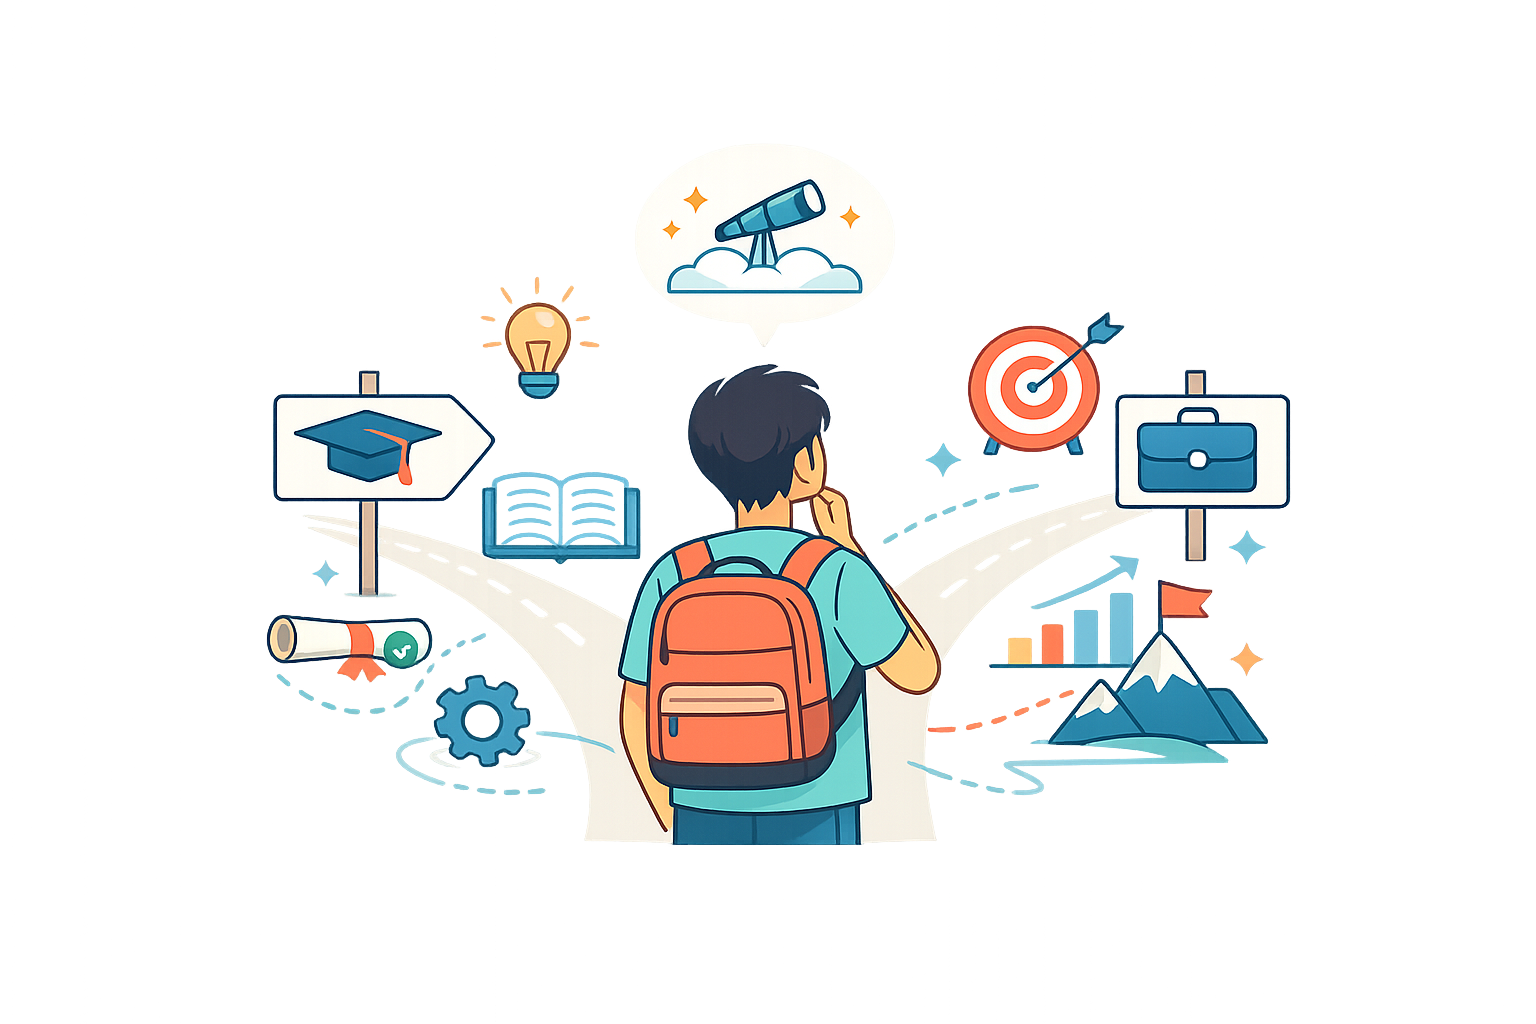
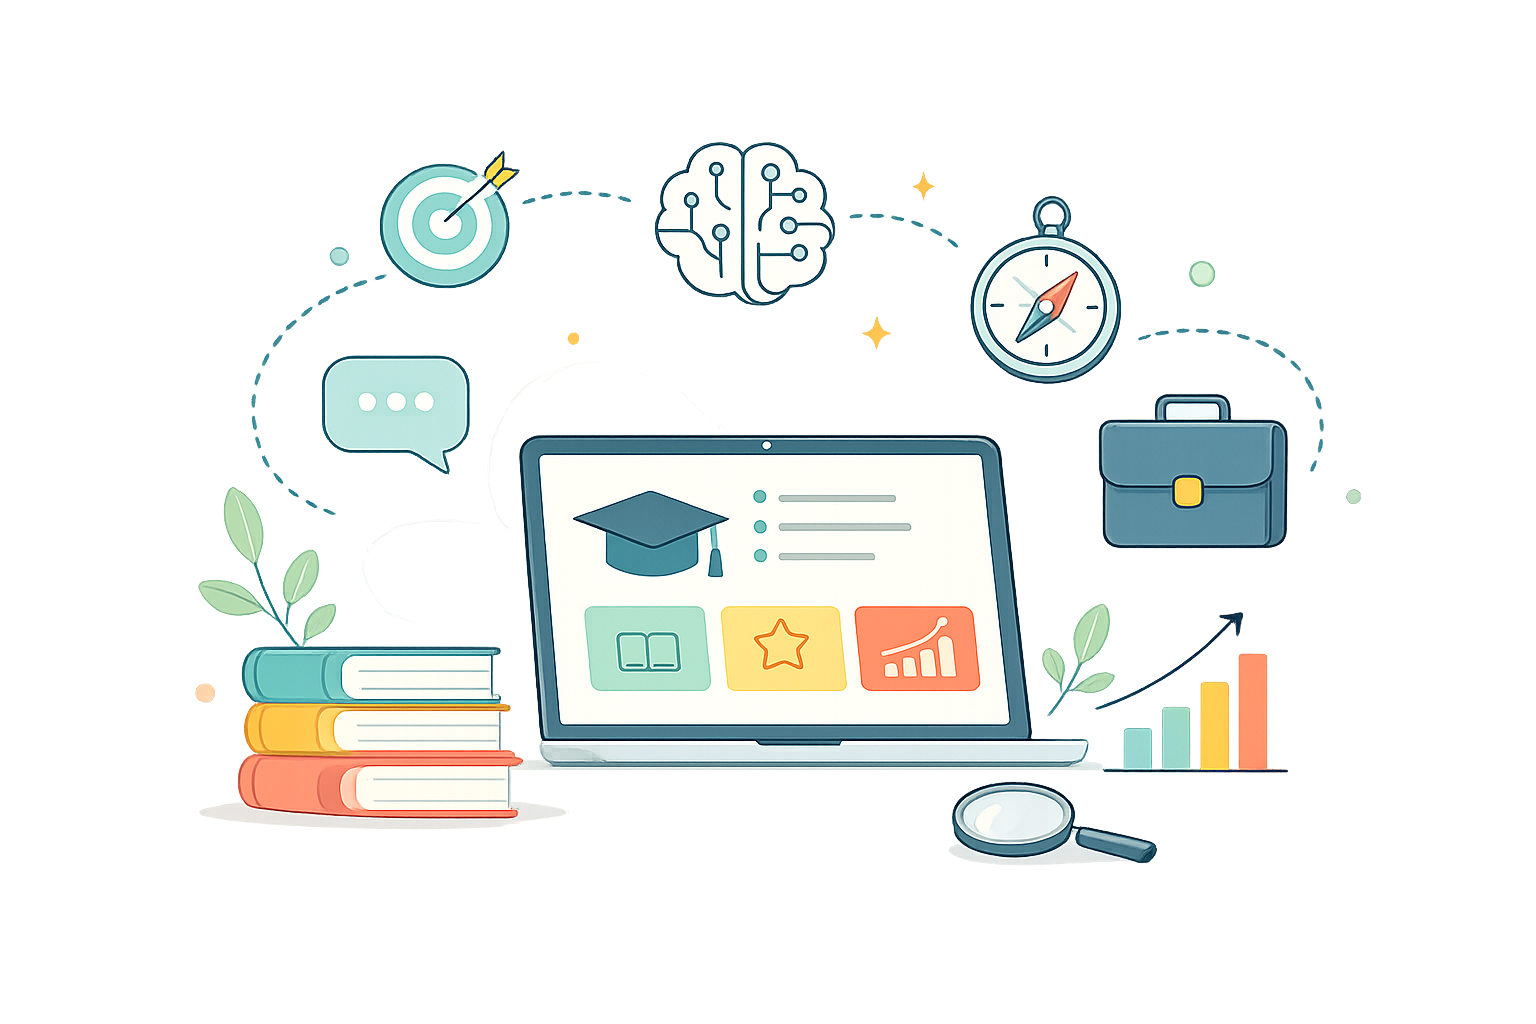
feat(onboarding): update onboarding images, enhance navigation logic, and refactor schemas

diff --git a/packages/contracts/src/schemas/onboarding-schema.ts b/packages/contracts/src/schemas/onboarding-schema.ts
@@ -1,6 +1,6 @@
 import { z } from 'zod';
 
-export const onboardingStrengthSchema = z.enum([
+export const strengthsEnum = [
   'problem_solving',
   'creativity',
   'people',
@@ -9,16 +9,11 @@ export const onboardingStrengthSchema = z.enum([
   'hands_on',
   'fast_learning',
   'organized',
-]);
+];
 
-export const onboardingSubjectSchema = z.enum(
-  ['math', 'science', 'writing', 'arts', 'social'],
-  {
-    error: 'Please choose your favorite subject',
-  }
-);
+export const subjectsEnum = ['math', 'science', 'writing', 'arts', 'social'];
 
-export const onboardingPassionSchema = z.enum([
+export const passionsEnum = [
   'tech',
   'music',
   'sports',
@@ -28,42 +23,63 @@ export const onboardingPassionSchema = z.enum([
   'nature',
   'building',
   'ideas',
-]);
+];
 
-export const onboardingFreeTimeSchema = z.enum(
-  ['build', 'outdoor', 'socialize', 'consume', 'learn'],
-  {
-    error: 'Please choose what you spend your free time',
-  }
-);
+export const freeTimeEnum = [
+  'build',
+  'outdoor',
+  'socialize',
+  'consume',
+  'learn',
+];
 
-export const onboardingWorkEnvironmentSchema = z.enum(
-  ['office', 'remote', 'outdoor', 'lab', 'mixed'],
-  {
-    error: 'Please choose your favorite work environment',
-  }
-);
+export const workEnvironmentEnum = [
+  'office',
+  'remote',
+  'outdoor',
+  'lab',
+  'mixed',
+];
 
-export const onboardingWorkStyleSchema = z.enum(
-  ['analyze', 'help', 'build', 'create', 'routine'],
-  {
-    error: 'Please choose your favorite work',
-  }
-);
+export const workStyleEnum = ['analyze', 'help', 'build', 'create', 'routine'];
 
-export const onboardingImpactSchema = z.enum(
-  ['create', 'people', 'discover', 'systems', 'express'],
-  {
-    error: 'Please choose one impactfull thing to you',
-  }
-);
+export const impactEnum = [
+  'create',
+  'people',
+  'discover',
+  'systems',
+  'express',
+];
 
-export const onboardingGoalSchema = z.enum(
-  ['impact', 'money', 'balance', 'growth', 'variety'],
-  {
-    error: 'Please choose your goal',
-  }
-);
+export const goalsEnum = ['impact', 'money', 'balance', 'growth', 'variety'];
+
+export const onboardingStrengthSchema = z.enum(strengthsEnum);
+
+export const onboardingSubjectSchema = z.enum(subjectsEnum, {
+  error: 'Please choose your favorite subject',
+});
+
+export const onboardingPassionSchema = z.enum(passionsEnum);
+
+export const onboardingFreeTimeSchema = z.enum(freeTimeEnum, {
+  error: 'Please choose what you spend your free time',
+});
+
+export const onboardingWorkEnvironmentSchema = z.enum(workEnvironmentEnum, {
+  error: 'Please choose your favorite work environment',
+});
+
+export const onboardingWorkStyleSchema = z.enum(workStyleEnum, {
+  error: 'Please choose your favorite work',
+});
+
+export const onboardingImpactSchema = z.enum(impactEnum, {
+  error: 'Please choose one impactfull thing to you',
+});
+
+export const onboardingGoalSchema = z.enum(goalsEnum, {
+  error: 'Please choose your goal',
+});
 
 export const onboardingFormSchema = z.object({
   strengths: z
@@ -80,10 +96,6 @@ export const onboardingFormSchema = z.object({
   workStyle: onboardingWorkStyleSchema,
   impact: onboardingImpactSchema,
   goals: onboardingGoalSchema,
-});
-
-export const onboardingSubmitRequestSchema = z.object({
-  responses: onboardingFormSchema,
 });
 
 export const onboardingSubmitResponseSchema = z.object({

diff --git a/packages/client/src/components/onboarding/onboarding-steps-navigations.tsx b/packages/client/src/components/onboarding/onboarding-steps-navigations.tsx
@@ -6,7 +6,7 @@ import type { OnboardingOutletContext } from '@/layouts/onboarding-layout';
 import { cn } from '@/lib/utils';
 import { type OnboardingFormValues } from '@contracts/shared/types/onboarding-types';
 import { ChevronLeft, ChevronRight } from 'lucide-react';
-import { useFormContext } from 'react-hook-form';
+import { useFormContext, useWatch } from 'react-hook-form';
 import { useNavigate, useOutletContext } from 'react-router-dom';
 import { Button } from '../ui/button';
 
@@ -19,6 +19,7 @@ const OnboardingStepsNavigations = ({
 }) => {
   const form = useFormContext<OnboardingFormValues>();
   const navigate = useNavigate();
+  const watchedValues = useWatch<OnboardingFormValues>();
   const { currentIndex, isSubmitting, submitProfile } =
     useOutletContext<OnboardingOutletContext>();
 
@@ -28,6 +29,18 @@ const OnboardingStepsNavigations = ({
   };
 
   const goNext = async () => {
+    // If any field remained invalid we should trigger user there
+    for (const [key, value] of Object.entries(watchedValues) as [
+      keyof OnboardingFormValues,
+      string | [],
+    ][]) {
+      if (!value || !value.length || value.length > 4) {
+        navigate(`/onboarding/${key}`);
+        await form.trigger(key);
+        return;
+      }
+    }
+
     if (step.type === 'cta') {
       await submitProfile();
       return;
@@ -41,9 +54,7 @@ const OnboardingStepsNavigations = ({
     }
 
     const next = ONBOARDING_STEPS[currentIndex + 1];
-    if (next) {
-      navigate(`/onboarding/${next.id}`);
-    }
+    if (next) navigate(`/onboarding/${next.id}`);
   };
   return (
     <div

diff --git a/packages/server/src/models/onboardin-model.ts b/packages/server/src/models/onboardin-model.ts
@@ -1,41 +1,16 @@
+import {
+  freeTimeEnum,
+  goalsEnum,
+  impactEnum,
+  passionsEnum,
+  strengthsEnum,
+  subjectsEnum,
+  workEnvironmentEnum,
+  workStyleEnum,
+} from '@contracts/shared/schemas/onboarding-schema';
 import mongoose from 'mongoose';
 
 const { Schema, model } = mongoose;
-
-const strengthsEnum = [
-  'problem_solving',
-  'creativity',
-  'people',
-  'analytical',
-  'communication',
-  'hands_on',
-  'fast_learning',
-  'organized',
-];
-
-const subjectsEnum = ['math', 'science', 'writing', 'arts', 'social'];
-
-const passionsEnum = [
-  'tech',
-  'music',
-  'sports',
-  'reading',
-  'science',
-  'social',
-  'nature',
-  'building',
-  'ideas',
-];
-
-const freeTimeEnum = ['build', 'outdoor', 'socialize', 'consume', 'learn'];
-
-const workEnvironmentEnum = ['office', 'remote', 'outdoor', 'lab', 'mixed'];
-
-const workStyleEnum = ['analyze', 'help', 'build', 'create', 'routine'];
-
-const impactEnum = ['create', 'people', 'discover', 'systems', 'express'];
-
-const goalsEnum = ['impact', 'money', 'balance', 'growth', 'variety'];
 
 const onboardingSchema = new Schema(
   {

diff --git a/packages/client/src/constants/onboarding-steps.ts b/packages/client/src/constants/onboarding-steps.ts
@@ -15,9 +15,9 @@ export type OnboardingStepId =
   | 'strengths'
   | 'subjects'
   | 'passions'
-  | 'free-time'
-  | 'work-environment'
-  | 'work-style'
+  | 'freeTime'
+  | 'workEnvironment'
+  | 'workStyle'
   | 'impact'
   | 'goals'
   | 'finish';
@@ -430,7 +430,7 @@ export const ONBOARDING_STEPS: OnboardingStep[] = [
     options: passionOptions,
   },
   {
-    id: 'free-time',
+    id: 'freeTime',
     type: 'single-select',
     title: 'On a free day, you usually:',
     description:
@@ -439,7 +439,7 @@ export const ONBOARDING_STEPS: OnboardingStep[] = [
     options: freeTimeOptions,
   },
   {
-    id: 'work-environment',
+    id: 'workEnvironment',
     type: 'single-select',
     title: 'Where would you enjoy working?',
     description:
@@ -448,7 +448,7 @@ export const ONBOARDING_STEPS: OnboardingStep[] = [
     options: environmentOptions,
   },
   {
-    id: 'work-style',
+    id: 'workStyle',
     type: 'single-select',
     title: 'What kind of work do you enjoy?',
     description:

diff --git a/packages/client/src/layouts/onboarding-layout.tsx b/packages/client/src/layouts/onboarding-layout.tsx
@@ -2,6 +2,7 @@ import {
   ONBOARDING_STEPS,
   onboardingDefaultValues,
 } from '@/constants/onboarding-steps';
+import { submitOnboardingProfile } from '@/services/oboarding-service';
 import { onboardingFormSchema } from '@contracts/shared/schemas/onboarding-schema';
 import type { OnboardingFormValues } from '@contracts/shared/types/onboarding-types';
 import { zodResolver } from '@hookform/resolvers/zod';
@@ -35,11 +36,9 @@ const OnboardingLayout = () => {
   const submitProfile = async () => {
     const payload = form.getValues();
 
-    console.log(payload);
+    const result = await submitOnboardingProfile(payload);
 
-    // const result = await submitOnboardingProfile(payload);
-
-    // navigate(result.data.nextRoute);
+    if (result.success) navigate('/congrates');
   };
 
   // If step id was out of the box then navigate to welcome

diff --git a/packages/client/src/components/onboarding/onboarding-intro-panel.tsx b/packages/client/src/components/onboarding/onboarding-intro-panel.tsx
@@ -8,15 +8,9 @@ const OnboardingIntroPanel = ({ step }: OnboardingIntroPanelProps) => {
   return (
     <div className="flex flex-col items-center justify-center text-center">
       <img
-        src="/onboarding-steps-bg.png"
+        src="/onboard-welcome.png"
         alt="Onboarding hero background"
-        className="fixed max-w-screen inset-0 scale-140 w-full h-full object-contain opacity-80 pointer-events-none select-none z-0 hidden md:block"
-      />
-
-      <img
-        src="/onboarding-welcome-top.png"
-        alt="Onboarding hero background"
-        className="pointer-events-none w-80 select-none z-0 md:hidden"
+        className="inset-0 max-w-120 w-full h-full object-contain pointer-events-none select-none z-0"
       />
 
       {/* <img

diff --git a/packages/contracts/src/types/onboarding-types.ts b/packages/contracts/src/types/onboarding-types.ts
@@ -8,7 +8,6 @@ import {
   onboardingStatusResponseSchema,
   onboardingStrengthSchema,
   onboardingSubjectSchema,
-  onboardingSubmitRequestSchema,
   onboardingSubmitResponseSchema,
   onboardingWorkEnvironmentSchema,
   onboardingWorkStyleSchema,
@@ -25,9 +24,7 @@ export type OnboardingWorkStyle = z.infer<typeof onboardingWorkStyleSchema>;
 export type OnboardingImpact = z.infer<typeof onboardingImpactSchema>;
 export type OnboardingGoal = z.infer<typeof onboardingGoalSchema>;
 export type OnboardingFormValues = z.infer<typeof onboardingFormSchema>;
-export type OnboardingSubmitRequest = z.infer<
-  typeof onboardingSubmitRequestSchema
->;
+
 export type OnboardingSubmitResponse = z.infer<
   typeof onboardingSubmitResponseSchema
 >;

diff --git a/packages/client/src/services/oboarding-service.ts b/packages/client/src/services/oboarding-service.ts
@@ -1,12 +1,12 @@
 import apiClient from '@/lib/api-client';
 import type {
+  OnboardingFormValues,
   OnboardingStatusResponse,
-  OnboardingSubmitRequest,
   OnboardingSubmitResponse,
 } from '@contracts/shared/types/onboarding-types';
 
 export const submitOnboardingProfile = async (
-  payload: OnboardingSubmitRequest
+  payload: OnboardingFormValues
 ): Promise<OnboardingSubmitResponse> => {
   const response = await apiClient.post(`/api/assessment/submit`, payload);
   const data = await response.data;

diff --git a/packages/server/src/routes/index.ts b/packages/server/src/routes/index.ts
@@ -1,5 +1,5 @@
 import { Router } from 'express';
-import assessmentRouter from './assessment.route';
+import assessmentRouter from './assessment-route';
 import advisorRouter from './advisor.route';
 import adminRouter from './admin.route';
 import pathwayRouter from './pathway.route';

diff --git a/packages/server/src/controller/onboarding-controller.ts b/packages/server/src/controller/onboarding-controller.ts
@@ -10,6 +10,8 @@ export const onboardingController = {
 
       const userId = req.user?.id || 'dummyUserId';
 
+      console.log(validatedData, userId);
+
       const result = await service.submitOnboarding(userId, validatedData);
 
       res.json({
